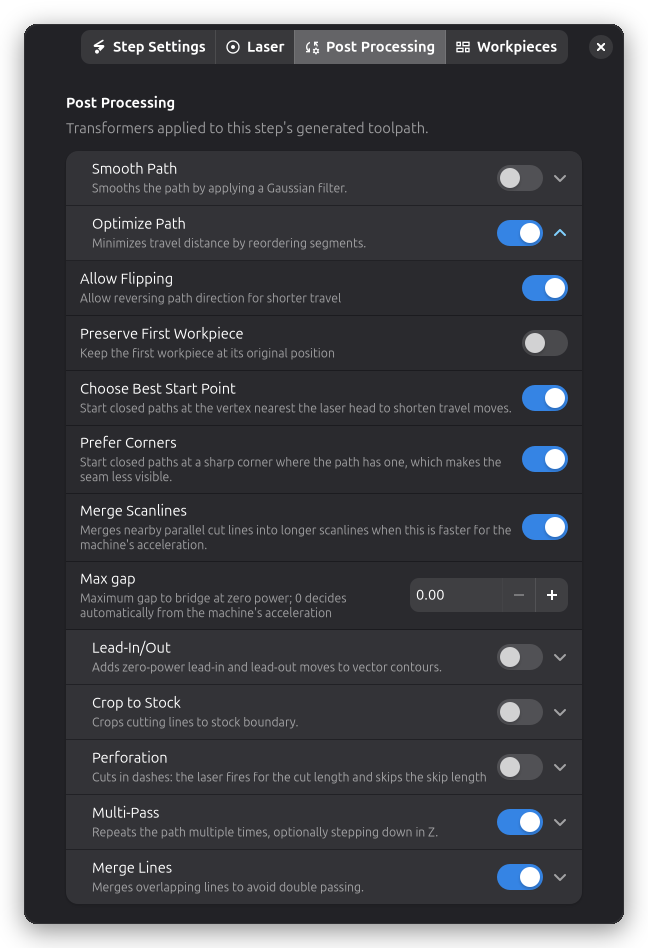
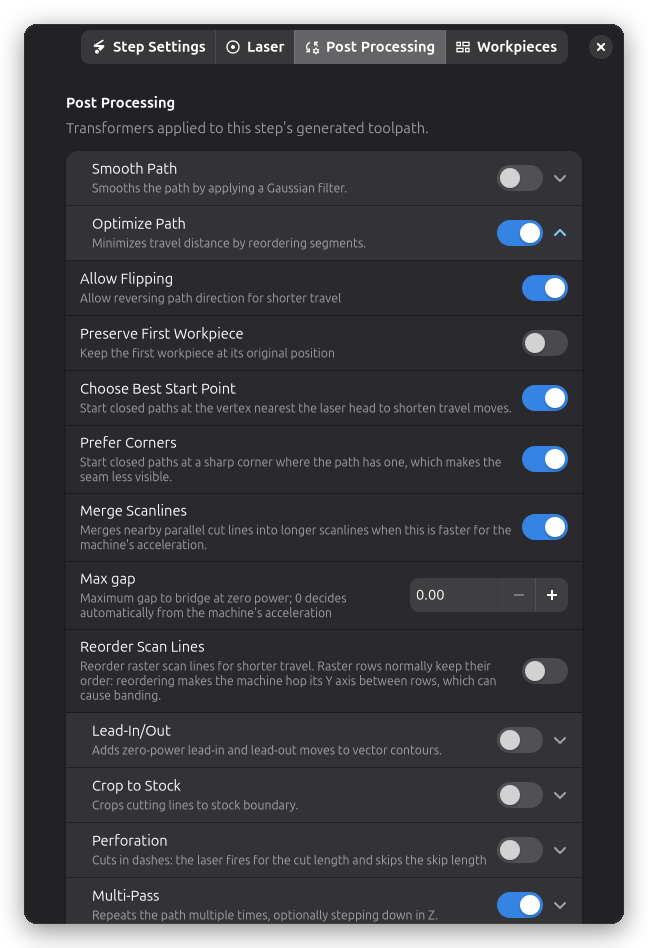
Expose the raygeo scan-line reorder flag in the Optimize step
Bump the raygeo pin to 1.76.0. Its travel optimizer keeps raster scan
lines in emission order by default: reordering them makes the machine
reverse and hop its Y axis between rows, and the mechanical play taken
up on every reversal displaces the rows enough to show up as
irregular horizontal banding (discussion #686 - confirmed against an
exported project whose G-code held the rows on a perfect 0.08mm grid
while burning them with 34.7% of row transitions moving Y back up).

The Optimize step gains a Reorder Scan Lines toggle (off by default)
for callers who want the old travel-optimizing behaviour on machines
with calibrated axes, plus serialization roundtrip and spec-passthrough
tests. Website docs and translations describe the new toggle, and the
optimize settings screenshot is regenerated.

Changed region(s): [[0.1235, 0.673, 0.8642, 0.9789]]

diff --git a/rayforge/builtin_addons/rayforge-addon-post/tests/transformers/test_optimize_transformer.py b/rayforge/builtin_addons/rayforge-addon-post/tests/transformers/test_optimize_transformer.py
@@ -376,7 +376,7 @@ def test_run_optimization_with_unsplit_scanline(mock_progress_context):
     ops.move_to(20, 0, 0)
     ops.scan_to(10, 0, 0, power_values=bytearray([10, 20, 30]))
 
-    optimizer = Optimize()
+    optimizer = Optimize(reorder_scanlines=True)
     _apply(optimizer, ops, mock_progress_context)
     ops.preload_state()
     travel_after = _calculate_travel_distance(ops)
@@ -717,7 +717,7 @@ def test_run_optimization_with_overscan_and_flip_preserves_state(
     # The optimizer should connect Path 1's end (10,10) to the nearest
     # point on Path 2, which is its end (15,10), causing a flip.
 
-    optimizer = Optimize()
+    optimizer = Optimize(reorder_scanlines=True)
     _apply(optimizer, ops, mock_progress_context)
     ops.preload_state()
 
@@ -1065,6 +1065,7 @@ class TestCutPlannerOptions:
         transformer = Optimize.from_dict({"name": "Optimize"})
         assert transformer.best_start_point is False
         assert transformer.prefer_corners is False
+        assert transformer.reorder_scanlines is False
 
     def test_serialization_roundtrip(self):
         transformer = Optimize(best_start_point=True, prefer_corners=True)
@@ -1072,12 +1073,26 @@ class TestCutPlannerOptions:
         assert restored.best_start_point is True
         assert restored.prefer_corners is True
 
+    def test_reorder_scanlines_defaults_off_and_roundtrips(self):
+        transformer = Optimize.from_dict({"name": "Optimize"})
+        assert transformer.reorder_scanlines is False
+        transformer = Optimize(reorder_scanlines=True)
+        restored = Optimize.from_dict(transformer.to_dict())
+        assert restored.reorder_scanlines is True
+
     def test_to_spec_passes_flags(self):
-        spec = Optimize(best_start_point=True, prefer_corners=True).to_spec(
-            None, None, None
-        )
+        spec = Optimize(
+            best_start_point=True,
+            prefer_corners=True,
+            reorder_scanlines=True,
+        ).to_spec(None, None, None)
         assert spec.best_start_point is True
         assert spec.prefer_corners is True
+        assert spec.reorder_scanlines is True
+
+    def test_to_spec_keeps_scanlines_by_default(self):
+        spec = Optimize().to_spec(None, None, None)
+        assert spec.reorder_scanlines is False
 
     def test_best_start_rotates_closed_path(self, mock_progress_context):
         ops = _seed_and_loop()

diff --git a/rayforge/builtin_addons/rayforge-addon-post/post_processors/transformers/optimize_transformer.py b/rayforge/builtin_addons/rayforge-addon-post/post_processors/transformers/optimize_transformer.py
@@ -45,6 +45,7 @@ class Optimize(OpsTransformer):
         merge_tolerance: float = DEFAULT_MERGE_TOLERANCE,
         best_start_point: bool = False,
         prefer_corners: bool = False,
+        reorder_scanlines: bool = False,
         **kwargs,
     ):
         super().__init__(enabled=enabled, **kwargs)
@@ -56,6 +57,7 @@ class Optimize(OpsTransformer):
         self.merge_tolerance = merge_tolerance
         self.best_start_point = best_start_point
         self.prefer_corners = prefer_corners
+        self.reorder_scanlines = reorder_scanlines
 
     @property
     def label(self) -> str:
@@ -92,6 +94,7 @@ class Optimize(OpsTransformer):
             merge_scanlines=merge,
             best_start_point=self.best_start_point,
             prefer_corners=self.prefer_corners,
+            reorder_scanlines=self.reorder_scanlines,
         )
 
     def to_dict(self) -> dict[str, Any]:
@@ -104,6 +107,7 @@ class Optimize(OpsTransformer):
         result["merge_tolerance"] = self.merge_tolerance
         result["best_start_point"] = self.best_start_point
         result["prefer_corners"] = self.prefer_corners
+        result["reorder_scanlines"] = self.reorder_scanlines
         return result
 
     @classmethod
@@ -127,4 +131,5 @@ class Optimize(OpsTransformer):
             ),
             best_start_point=data.get("best_start_point", False),
             prefer_corners=data.get("prefer_corners", False),
+            reorder_scanlines=data.get("reorder_scanlines", False),
         )

diff --git a/rayforge/builtin_addons/rayforge-addon-post/post_processors/widgets/optimize_group.py b/rayforge/builtin_addons/rayforge-addon-post/post_processors/widgets/optimize_group.py
@@ -101,6 +101,21 @@ class OptimizeSettingsGroup(TransformerSettingsGroup):
             lambda r: self._on_merge_gap_changed(r)
         )
 
+        self.reorder_scanlines_row = Adw.SwitchRow(
+            title=_("Reorder Scan Lines"),
+            subtitle=_(
+                "Reorder raster scan lines for shorter travel. Raster "
+                "rows normally keep their order: reordering makes the "
+                "machine hop its Y axis between rows, which can cause "
+                "banding."
+            ),
+        )
+        self.reorder_scanlines_row.set_active(transformer.reorder_scanlines)
+        self.add(self.reorder_scanlines_row)
+        self.reorder_scanlines_row.connect(
+            "notify::active", self._on_reorder_scanlines_toggled
+        )
+
     def _on_flip_toggled(
         self, row: Adw.SwitchRow, _pspec: GObject.ParamSpec
     ) -> None:
@@ -159,4 +174,14 @@ class OptimizeSettingsGroup(TransformerSettingsGroup):
             key="merge_max_gap_mm",
             value=row.get_value_in_base_units(),
             name=_("Change maximum bridged gap"),
+        )
+
+    def _on_reorder_scanlines_toggled(
+        self, row: Adw.SwitchRow, _pspec: GObject.ParamSpec
+    ) -> None:
+        self.param_changed.send(
+            self,
+            key="reorder_scanlines",
+            value=row.get_active(),
+            name=_("Toggle Reorder Scan Lines"),
         )

diff --git a/website/i18n/hi/docusaurus-plugin-content-docs/current/features/path-optimization.md b/website/i18n/hi/docusaurus-plugin-content-docs/current/features/path-optimization.md
@@ -48,6 +48,13 @@ description:
 
 ![बंद पाथ के प्रारंभ बिंदु: जैसे बनाया गया, सबसे नज़दीकी शीर्ष, सबसे नज़दीकी कोना](/images/path-optimization-start-point.webp)
 
+### स्कैन लाइनों को पुनर्व्यवस्थित करें
+
+नियंत्रित करता है कि क्या रैस्टर स्कैन लाइनें यात्रा अनुकूलन में भाग लेती हैं. डिफ़ॉल्ट रूप से बंद:
+रैस्टर लाइनें अपना उत्कीर्णन क्रम बनाए रखती हैं, क्योंकि पुनर्व्यवस्था से मशीन पंक्तियों के बीच Y
+अक्ष पर छलांग लगाती है, और हर छलांग पर लिया गया यांत्रिक खेल बैंडिंग के रूप में दिख सकता है. इसे तभी
+चालू करें जब आपकी मशीन के अक्ष कैलिब्रेटेड हों और आप बड़े रैस्टर जॉब पर यात्रा समय बचाना चाहते हों.
+
 ## कब अनुकूलन उपयोग करें
 
 **सक्षम करें:**

diff --git a/website/i18n/uk/docusaurus-plugin-content-docs/current/features/path-optimization.md b/website/i18n/uk/docusaurus-plugin-content-docs/current/features/path-optimization.md
@@ -42,6 +42,14 @@
 
 ![Початкові точки замкненого шляху: як накреслено, найближча вершина, найближчий кут](/images/path-optimization-start-point.webp)
 
+### Перевпорядкувати рядки сканування
+
+Керує тим, чи беруть рядки растрового сканування участь в оптимізації переміщень. Типово вимкнено:
+рядки растру зберігають порядок гравіювання, бо перевпорядкування змушує машину перестрибувати вісь
+Y між рядками, і механічний люфт, який обирається на кожному стрибку, може проявлятися як
+смугування. Увімкніть, лише якщо осі вашої машини відрегульовані і ви хочете заощадити час
+переміщень на великих растрових роботах.
+
 ## Коли використовувати оптимізацію
 
 **Увімкнути для:**

diff --git a/website/i18n/pt-BR/docusaurus-plugin-content-docs/current/features/path-optimization.md b/website/i18n/pt-BR/docusaurus-plugin-content-docs/current/features/path-optimization.md
@@ -44,6 +44,14 @@ com **Escolher o Melhor Ponto de Início** (2), e no canto vivo mais próximo co
 ![Pontos de início de um caminho fechado: como desenhado, no vértice mais próximo, no canto mais
 próximo](/images/path-optimization-start-point.webp)
 
+### Reordenar Linhas de Varredura
+
+Controla se as linhas de varredura de raster participam da otimização de trajeto. Desativado por
+padrão: as linhas de raster mantêm a ordem de gravação, porque reordenar faz a máquina saltar o eixo
+Y entre linhas, e a folga mecânica absorvida em cada salto pode aparecer como bandas. Ative apenas
+se os eixos da sua máquina estiverem calibrados e você quiser economizar tempo de trajeto em
+trabalhos de raster grandes.
+
 ## Quando Usar Otimização
 
 **Habilitar para:**

diff --git a/website/i18n/fr/docusaurus-plugin-content-docs/current/features/path-optimization.md b/website/i18n/fr/docusaurus-plugin-content-docs/current/features/path-optimization.md
@@ -45,6 +45,14 @@ les Coins** (3) :
 ![Points de départ d'un parcours fermé : tel que dessiné, au sommet le plus proche, à l'angle le
 plus proche](/images/path-optimization-start-point.webp)
 
+### Réordonner les Lignes de Balayage
+
+Contrôle si les lignes de balayage de trame participent à l'optimisation des déplacements. Désactivé
+par défaut : les lignes de trame conservent leur ordre de gravure, car les réordonner fait sauter
+l'axe Y de la machine entre les lignes, et le jeu mécanique repris à chaque saut peut apparaître
+sous forme de bandes. Active-le seulement si les axes de ta machine sont calibrés et que tu veux
+gagner du temps de déplacement sur de grands travaux de trame.
+
 ## Quand Utiliser l'Optimisation
 
 **Activer pour :**

diff --git a/website/i18n/es/docusaurus-plugin-content-docs/current/features/path-optimization.md b/website/i18n/es/docusaurus-plugin-content-docs/current/features/path-optimization.md
@@ -47,6 +47,14 @@ Esquinas** (3):
 ![Puntos de inicio de una trayectoria cerrada: como se dibujó, en el vértice más cercano, en la
 esquina más cercana](/images/path-optimization-start-point.webp)
 
+### Reordenar Líneas de Escaneo
+
+Controla si las líneas de escaneo de trama participan en la optimización de trayectoria. Desactivado
+por defecto: las líneas de trama conservan su orden de grabado, porque reordenarlas obliga a la
+máquina a saltar con el eje Y entre líneas, y el juego mecánico que se toma en cada salto puede
+aparecer como bandas. Actívalo solo si los ejes de tu máquina están calibrados y quieres ahorrar
+tiempo de recorrido en trabajos de trama grandes.
+
 ## Cuándo Usar Optimización
 
 **Habilitar para:**

diff --git a/website/i18n/de/docusaurus-plugin-content-docs/current/features/path-optimization.md b/website/i18n/de/docusaurus-plugin-content-docs/current/features/path-optimization.md
@@ -46,6 +46,14 @@ bevorzugen** (3):
 ![Startpunkte eines geschlossenen Pfads: wie gezeichnet, am nächsten Eckpunkt, an der nächsten
 scharfen Ecke](/images/path-optimization-start-point.webp)
 
+### Scanzeilen neu anordnen
+
+Steuert, ob Raster-Scanzeilen an der Reiseoptimierung teilnehmen. Standardmäßig aus: Rasterzeilen
+behalten ihre Brandreihenfolge, denn eine Neuanordnung lässt die Maschine zwischen den Zeilen auf
+der Y-Achse hin- und herspringen, und das mechanische Spiel bei jedem Sprung kann als
+Streifenbildung sichtbar werden. Aktiviere es nur, wenn die Achsen deiner Maschine kalibriert sind
+und du bei großen Raster-Jobs Reisezeit sparen willst.
+
 ## Wann Optimierung verwenden
 
 **Aktivieren für:**

diff --git a/website/docs/features/path-optimization.md b/website/docs/features/path-optimization.md
@@ -48,6 +48,13 @@ The same closed path entered where it was drawn (1), at the vertex nearest the l
 
 ![Entry points of a closed path: as drawn, at the nearest vertex, at the nearest corner](/images/path-optimization-start-point.webp)
 
+### Reorder Scan Lines
+
+Controls whether raster scan lines participate in travel optimization. Off by default: raster lines
+keep their burn order, because reordering makes the machine hop its Y axis between lines, and the
+mechanical play taken up on every hop can show up as banding. Enable it only if your machine has
+calibrated axes and you want to shave travel time on large raster jobs.
+
 ## When to Use Optimization
 
 **Enable for:**

diff --git a/website/i18n/zh-CN/docusaurus-plugin-content-docs/current/features/path-optimization.md b/website/i18n/zh-CN/docusaurus-plugin-content-docs/current/features/path-optimization.md
@@ -36,6 +36,10 @@
 
 ![闭合路径的切入点：按绘制位置、最近的顶点、最近的拐角](/images/path-optimization-start-point.webp)
 
+### 重新排列扫描线
+
+控制光栅扫描线是否参与路径优化。默认关闭：光栅线保持其烧蚀顺序，因为重新排列会让机器在行之间跳动 Y 轴，每次跳动吸收的机械旷量都可能表现为条纹。仅当您的机器轴已校准并且想在大型光栅作业中节省移动时间时才启用。
+
 ## 何时使用优化
 
 **启用用于：**
